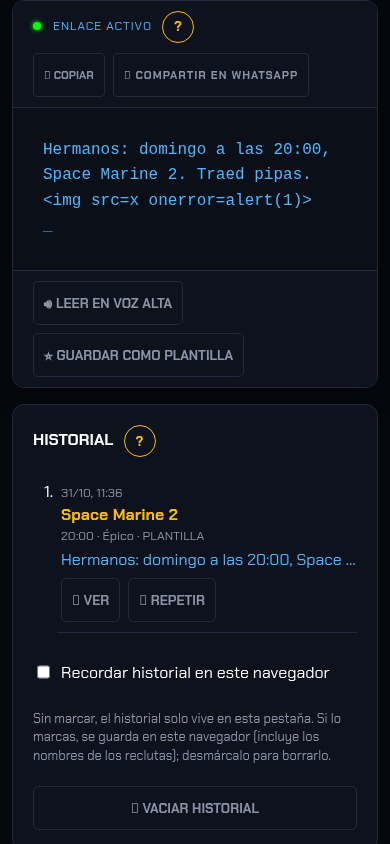
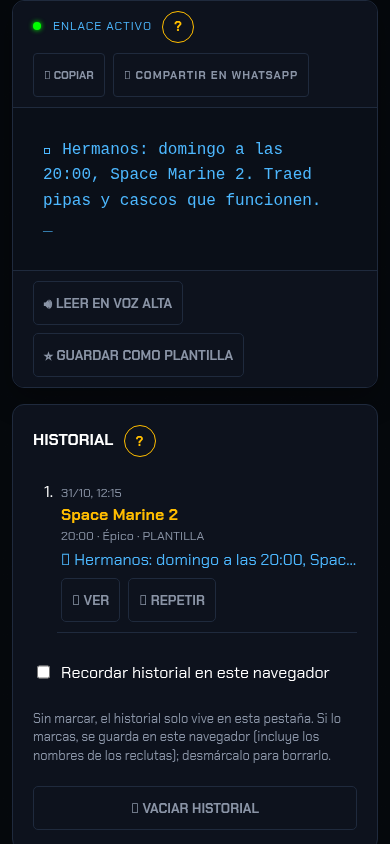
fix: retoques de la revisión final de Fable (PR #10)
- El input de archivo de IMPORTAR ya no es tabulable (tabindex=-1, aria-hidden): lo abre
  el botón. Prueba de componente.
- Captura del README «Leer en voz alta» rehecha con una transmisión normal (la anterior
  mostraba el texto de la prueba de inyección).
- Mensajes de versión de Node sin ambigüedad: «Node.js 20.19 o posterior de la serie 20,
  o 22.12 o posterior» (preflight, setup, CHANGELOG, DESARROLLO).
- Importar un texto de más de 4000 caracteres cuenta como no válido en vez de recortarse
  en silencio. Prueba.
- DESARROLLO: instalación manual del servidor en ARM con PUPPETEER_SKIP_DOWNLOAD=1.
- La cabecera muestra la versión de package.json (V3.4.0) en vez de «V3.0». Prueba.
- Botones «?» de ayuda con zona táctil de 44 × 44 px sin cambiar su círculo de 32 px.

Hecho por Claude.

diff --git a/vite.config.ts b/vite.config.ts
@@ -1,4 +1,5 @@
 /// <reference types="vitest/config" />
+import { readFileSync } from 'node:fs'
 import { fileURLToPath, URL } from 'node:url'
 
 import { defineConfig, loadEnv, type Plugin } from 'vite'
@@ -8,6 +9,8 @@ import { assertDevTokenNotExposed } from './scripts/devHost.ts'
 
 /** Nombre del repo: base de la web en GitHub Pages (https://bertmarti.github.io/squad-summoner-v3/). */
 const PAGES_BASE = '/squad-summoner-v3/'
+/** Versión que se muestra en la cabecera (sale de package.json). */
+const APP_VERSION: string = JSON.parse(readFileSync(new URL('./package.json', import.meta.url), 'utf8')).version
 
 /** Inserta una Content-Security-Policy en el index.html compilado (no en desarrollo, para no romper el HMR). */
 function contentSecurityPolicy(connectSrc: string[]): Plugin {
@@ -61,7 +64,10 @@ export default defineConfig(({ command, mode }) => {
     base: isPages ? PAGES_BASE : '/',
     // El token del servidor solo se incrusta con «npm run dev» (servido en este equipo). Ningún build (ni Pages ni
     // uno local que alguien pueda servir o copiar) lo lleva dentro: ahí se pega en ⚙ CONFIGURAR API → Servidor.
-    define: command === 'build' ? { 'import.meta.env.VITE_SERVER_TOKEN': '""' } : {},
+    define: {
+      __APP_VERSION__: JSON.stringify(APP_VERSION),
+      ...(command === 'build' ? { 'import.meta.env.VITE_SERVER_TOKEN': '""' } : {}),
+    },
     plugins: [
       devTokenGuard(env.VITE_SERVER_TOKEN),
       vue(),

diff --git a/src/components/__tests__/TemplatesPanel.test.ts b/src/components/__tests__/TemplatesPanel.test.ts
@@ -158,6 +158,13 @@ describe('TemplatesPanel', () => {
 
   it('IMPORTAR un archivo válido muestra el resumen; uno no válido, el motivo', async () => {
     const w = mountPanel()
+    const fileInput = w.get('input[type="file"]')
+    // El input real no se alcanza con el teclado: lo abre el botón ⬆ IMPORTAR.
+    expect(fileInput.attributes('tabindex')).toBe('-1')
+    expect(fileInput.attributes('aria-hidden')).toBe('true')
+    const click = vi.spyOn(fileInput.element as HTMLInputElement, 'click').mockImplementation(() => undefined)
+    await btn(w, '⬆ IMPORTAR').trigger('click')
+    expect(click).toHaveBeenCalled()
     const raw = exportTemplates([{ id: 'p-1', name: 'Importada', text: 'Hola', createdAt: '', updatedAt: '' }])
     await pickFile(w, new File([raw], 'plantillas.json', { type: 'application/json' }))
     expect(w.get('.import-status[role="status"]').text()).toBe('1 plantilla importada.')

diff --git a/src/lib/__tests__/templates.test.ts b/src/lib/__tests__/templates.test.ts
@@ -194,12 +194,14 @@ describe('exportar e importar', () => {
         { nombre: 'Sin texto' },
         'cadena',
         { nombre: 'Enorme', texto: 'x'.repeat(MAX_MESSAGE_LENGTH * 3) },
+        { nombre: 'Un poco larga', texto: 'x'.repeat(MAX_MESSAGE_LENGTH + 1) },
       ],
     })
     const r = importTemplates(raw, current, NOW)
-    expect(r).toMatchObject({ added: 1, duplicated: 1, invalid: 4, overLimit: 0 })
+    expect(r).toMatchObject({ added: 1, duplicated: 1, invalid: 5, overLimit: 0 })
     expect(r.list.map((t) => t.name)).toEqual(['Uno', 'Uno (2)'])
-    expect(describeImport(r)).toBe('1 plantilla importada, 1 ya existía, 4 no válidas descartadas.')
+    expect(describeImport(r)).toBe('1 plantilla importada, 1 ya existía, 5 no válidas descartadas.')
+    expect(r.list.some((t) => t.name === 'Un poco larga')).toBe(false)
   })
 
   it('respeta el máximo de plantillas', () => {

diff --git a/src/components/panels/TemplatesPanel.vue b/src/components/panels/TemplatesPanel.vue
@@ -269,7 +269,15 @@ const onKeydown = (event: KeyboardEvent) => {
       <small v-if="store.isFull" class="limit-note">Máximo {{ MAX_TEMPLATES }} plantillas</small>
       <button type="button" :disabled="store.isEmpty" @click="exportAll">⬇ EXPORTAR</button>
       <button type="button" @click="chooseImport">⬆ IMPORTAR</button>
-      <input ref="fileInput" class="sr-only" type="file" accept="application/json,.json" @change="importFile" />
+      <input
+        ref="fileInput"
+        class="sr-only"
+        type="file"
+        tabindex="-1"
+        aria-hidden="true"
+        accept="application/json,.json"
+        @change="importFile"
+      />
     </div>
     <p v-if="importMessage" class="import-status" role="status">{{ importMessage }}</p>
     <p v-if="importError" class="template-error" role="alert">{{ importError }}</p>

diff --git a/server/lib/preflight.js b/server/lib/preflight.js
@@ -26,7 +26,7 @@ function findProblems({
   // 20.19+ o 22.12+: Puppeteer usa @puppeteer/browsers 3 (módulo ES cargado con require), que necesita esas versiones.
   if (major < 20 || (major === 20 && minor < 19) || major === 21 || (major === 22 && minor < 12)) {
     problems.push(
-      `Necesitas Node.js 20.19 o superior (o 22.12+; tienes ${nodeVersion}). Instálalo desde https://nodejs.org o con nvm.`,
+      `Necesitas Node.js 20.19 o posterior de la serie 20, o 22.12 o posterior (tienes ${nodeVersion}). Instálalo desde https://nodejs.org o con nvm.`,
     );
   }
   if (!exists(path.join(SERVER_DIR, 'node_modules', 'whatsapp-web.js'))) {

diff --git a/src/components/panels/AppHeader.vue b/src/components/panels/AppHeader.vue
@@ -1,6 +1,6 @@
 <script setup lang="ts">
 import { ref, computed } from 'vue'
-import { ENV_API_KEY } from '@/config'
+import { APP_VERSION, ENV_API_KEY } from '@/config'
 
 const props = defineProps<{ isDark: boolean; helpOpen: boolean }>()
 const emit = defineEmits<{ openConfig: []; toggleTheme: []; toggleHelp: [] }>()
@@ -19,7 +19,7 @@ defineExpose({ focusConfig: () => configButton.value?.focus() })
       </div>
       <div class="text">
         <h1>SQUAD SUMMONER</h1>
-        <small>PROTOCOLO DE INVOCACIÓN TÁCTICA V3.0</small>
+        <small>PROTOCOLO DE INVOCACIÓN TÁCTICA V{{ APP_VERSION }}</small>
       </div>
     </div>
 

diff --git a/src/lib/templates.ts b/src/lib/templates.ts
@@ -312,7 +312,8 @@ export function importTemplates(raw: string, current: readonly UserTemplate[], n
     const name = cleanTemplateName(item && typeof item === 'object' ? item.nombre : '')
     const rawText = item && typeof item === 'object' ? item.texto : ''
     const text = cleanTemplateText(rawText)
-    if (!name || !text || typeof rawText !== 'string' || rawText.length > MAX_MESSAGE_LENGTH * 2) {
+    // Un texto de más de 4000 caracteres no se recorta en silencio: cuenta como no válido.
+    if (!name || !text || typeof rawText !== 'string' || validateTemplateInput(name, rawText)) {
       result.invalid++
       continue
     }

diff --git a/src/components/HelpTip.vue b/src/components/HelpTip.vue
@@ -37,6 +37,7 @@ onBeforeUnmount(() => document.removeEventListener('keydown', onKeydown))
   display: inline;
 }
 .help-button {
+  position: relative;
   min-width: 32px;
   min-height: 32px;
   margin-left: 6px;
@@ -48,6 +49,12 @@ onBeforeUnmount(() => document.removeEventListener('keydown', onKeydown))
   font: 700 0.85rem var(--font-stack);
   vertical-align: middle;
   cursor: pointer;
+}
+/* Zona táctil de 44 × 44 px sin agrandar el círculo de 32 px (WCAG 2.5.5). */
+.help-button::after {
+  content: '';
+  position: absolute;
+  inset: -6px;
 }
 .help-text {
   display: block;

diff --git a/src/components/__tests__/App.test.ts b/src/components/__tests__/App.test.ts
@@ -39,6 +39,11 @@ afterEach(() => {
 })
 
 describe('App (flujo completo)', () => {
+  it('la cabecera muestra la versión de package.json', async () => {
+    const { version } = (await import('../../../package.json')).default
+    expect(mountApp().get('.top-bar small').text()).toBe(`PROTOCOLO DE INVOCACIÓN TÁCTICA V${version}`)
+  })
+
   it('demo con encuesta: la transmisión lleva la encuesta y entra en el historial', async () => {
     const w = mountApp()
     await pickGame(w, 'Deep Rock Galactic')

diff --git a/src/config.ts b/src/config.ts
@@ -23,3 +23,6 @@ export const ENV_SERVER_TOKEN = IS_STATIC_DEMO ? '' : (import.meta.env.VITE_SERV
 
 /** Clave incrustada en la compilación (solo para uso local; vacía en Pages). */
 export const ENV_API_KEY = IS_STATIC_DEMO ? '' : (import.meta.env.VITE_GOOGLE_API_KEY || '').trim()
+
+/** Versión de la app (de package.json, inyectada por vite.config.ts). */
+export const APP_VERSION = __APP_VERSION__

diff --git a/env.d.ts b/env.d.ts
@@ -1,5 +1,8 @@
 /// <reference types="vite/client" />
 
+/** Versión de package.json (la inyecta vite.config.ts). */
+declare const __APP_VERSION__: string
+
 interface ImportMetaEnv {
   readonly VITE_GOOGLE_API_KEY?: string
   readonly VITE_SERVER_URL?: string

diff --git a/docs/DESARROLLO.md b/docs/DESARROLLO.md
@@ -15,7 +15,7 @@ Para la explicación de usuario, vuelve al [README](../README.md).
 
 ## Requisitos
 
-- Node.js `^20.19.0` o `>=22.12.0` (lo piden Vite 8 y el servidor).
+- Node.js 20.19 o posterior de la serie 20, o 22.12 o posterior (`^20.19.0 || >=22.12.0`; lo piden Vite 8 y el servidor).
 - Una API key de Gemini de [Google AI Studio](https://aistudio.google.com/apikey) si quieres usar la IA (sin ella hay modo demo).
 - Para el servidor: una cuenta de WhatsApp en el móvil y un sistema donde Puppeteer pueda lanzar Chromium.
 
@@ -27,6 +27,13 @@ cd squad-summoner-v3
 npm ci                 # web
 npm run setup          # comprueba requisitos, instala y crea .env
 npm run server:grupos  # opcional: vincula WhatsApp y elige el grupo
+```
+
+Si instalas el servidor a mano en Linux ARM (Raspberry Pi) en vez de con `npm run setup`, evita que Puppeteer descargue
+un Chrome x64 que no sirve (~170 MB) y usa el Chromium del sistema (`sudo apt install chromium`):
+
+```sh
+cd server && PUPPETEER_SKIP_DOWNLOAD=1 npm ci
 ```
 
 ## Variables de entorno (`.env` en la raíz)
